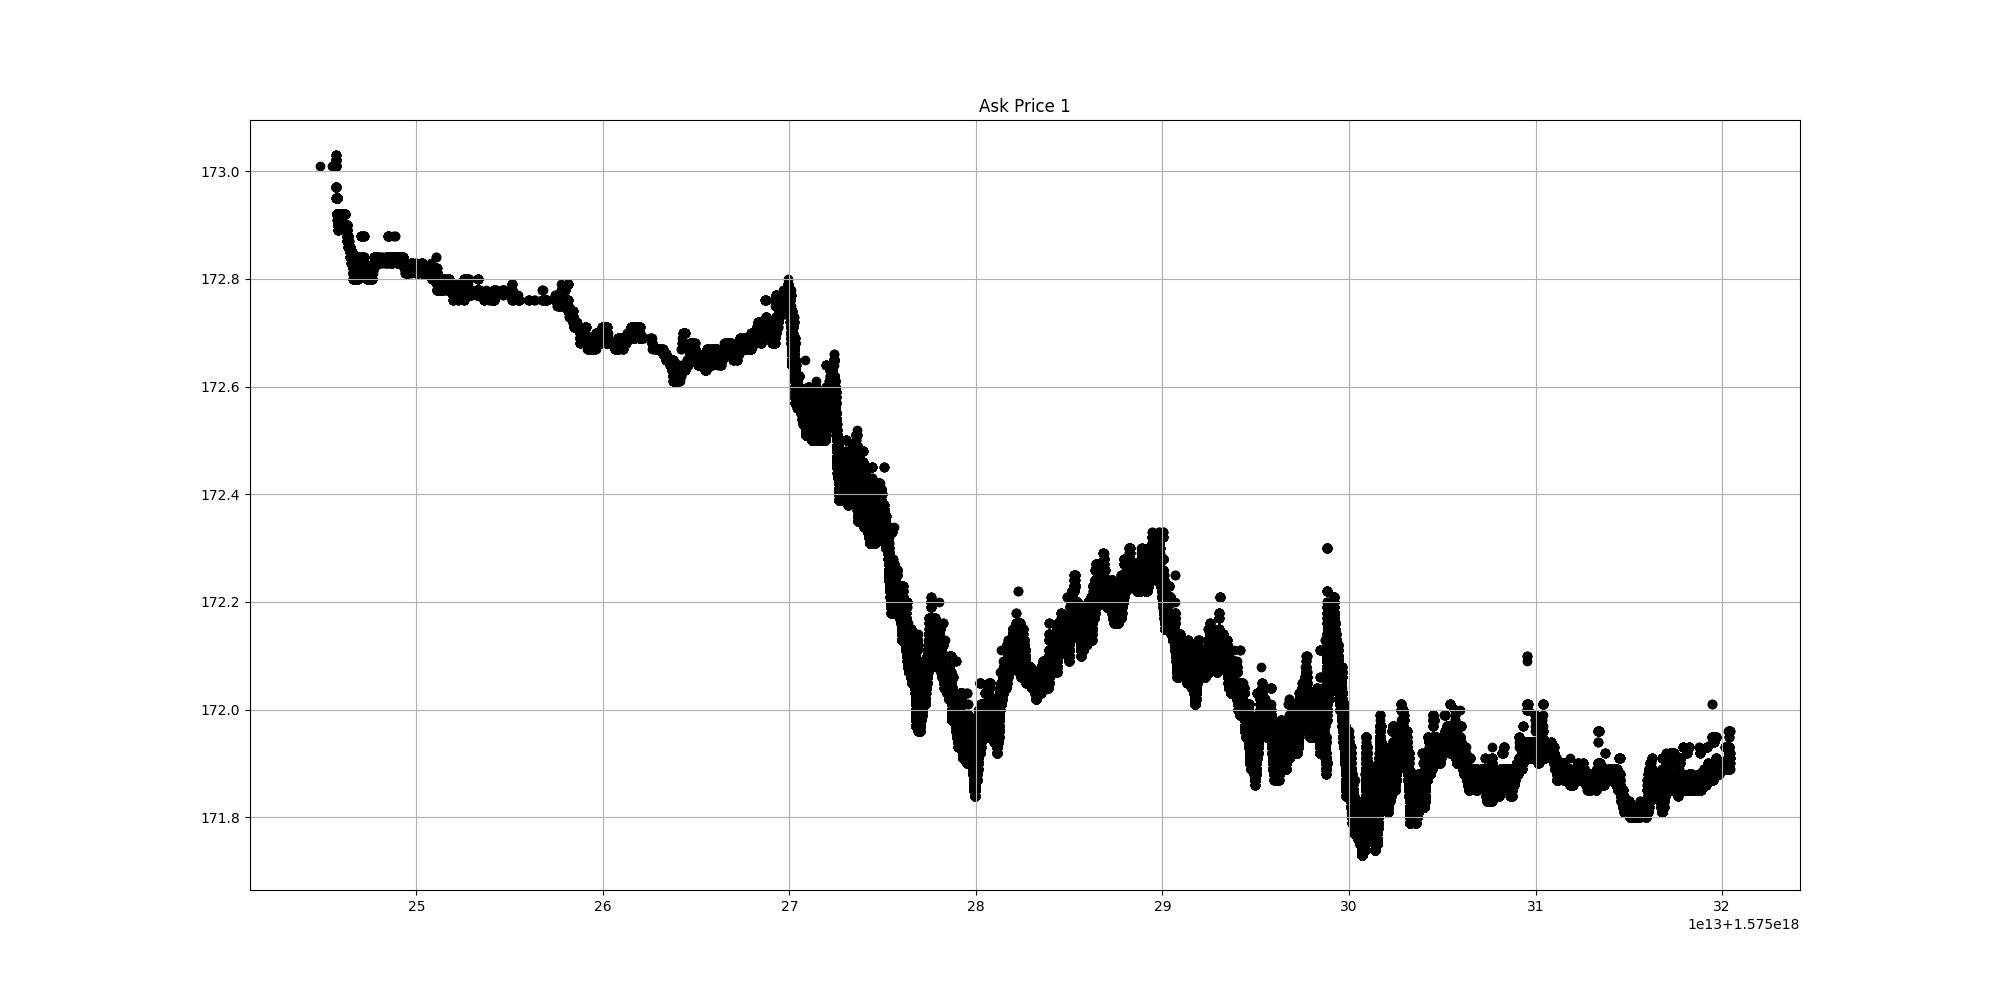
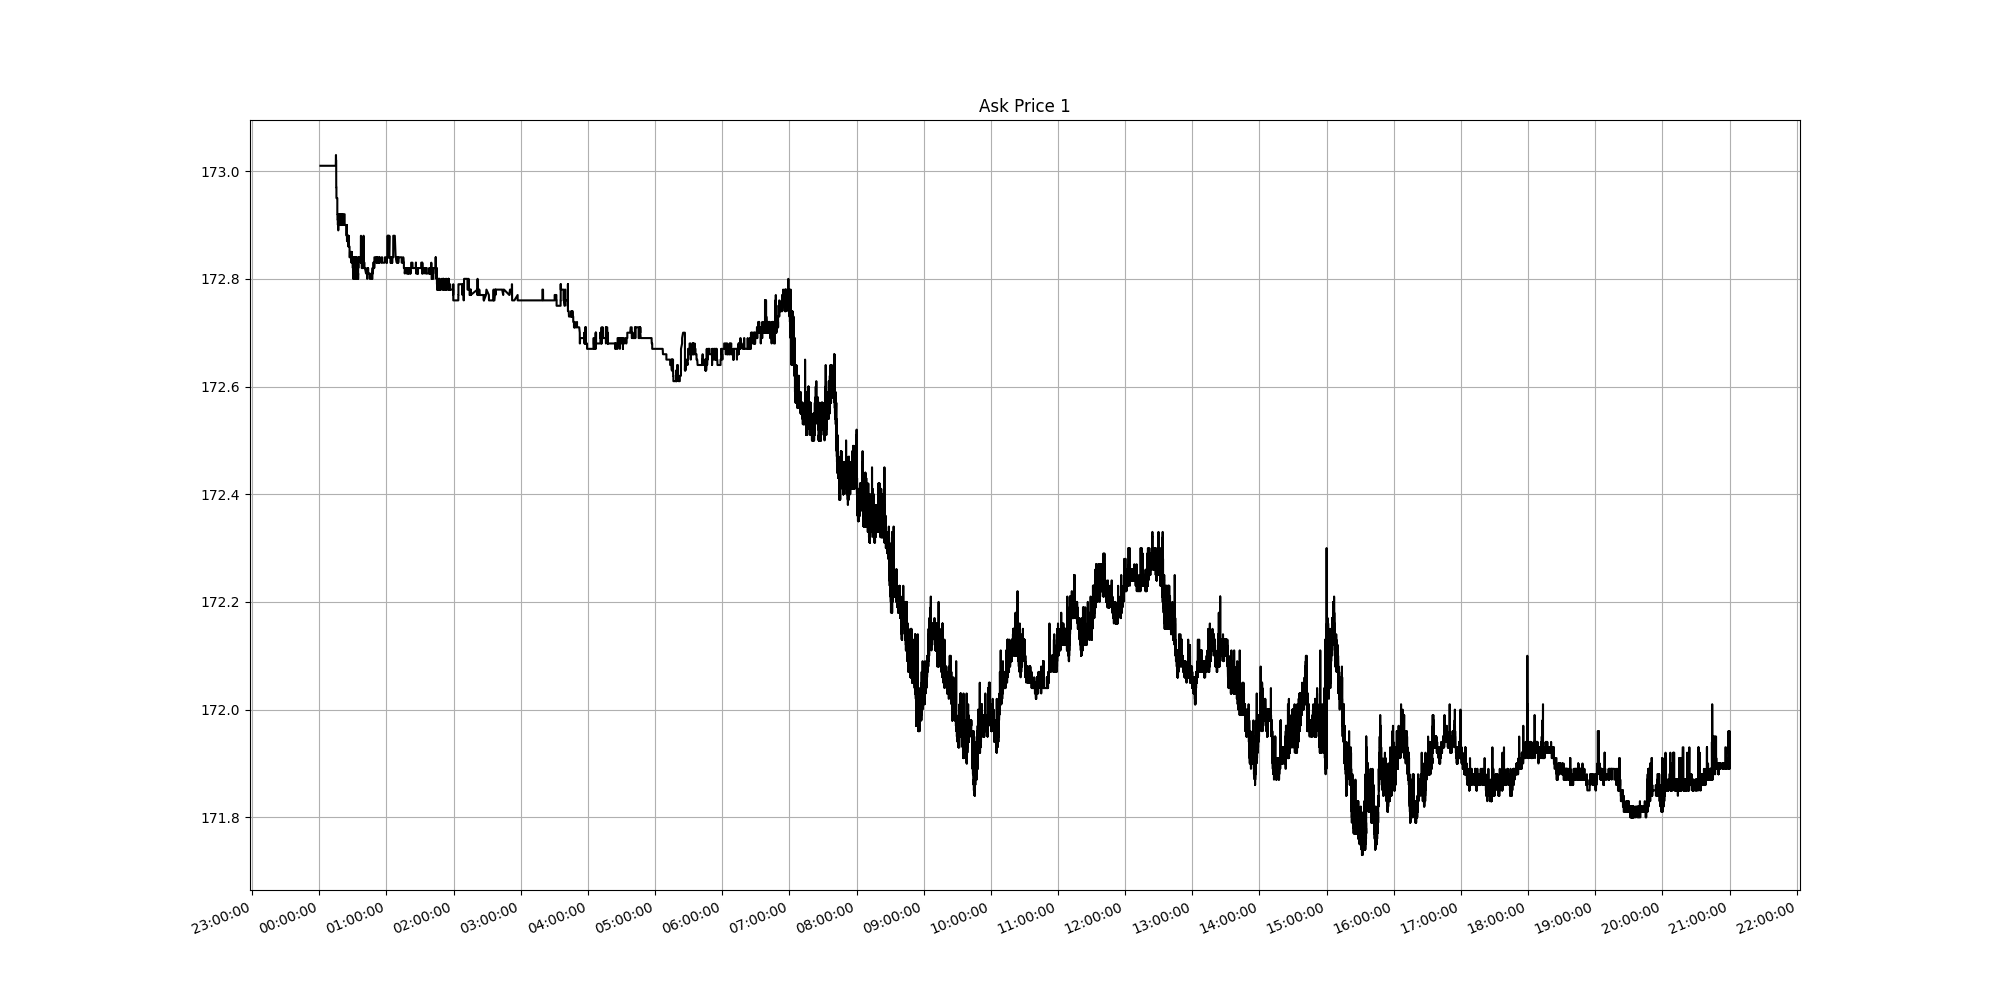
Loaded one of the witching days, parsed, feature extracted and visualized across all basic dimensions, feature correlation analysis BugFix in parsing, where timestamp appeared to be None

Changed region(s): [[0.434, 0.527, 0.868, 0.868], [0.155, 0.155, 0.465, 0.527], [0.093, 0.899, 0.899, 0.93]]

diff --git a/src/anomaly_detection/visuals.py b/src/anomaly_detection/visuals.py
@@ -1,5 +1,6 @@
 import os
 import numpy as np
+import pandas
 import datetime
 import matplotlib.pyplot as plt
 import matplotlib.dates as mdates
@@ -23,8 +24,8 @@ def plot_eval_res(date, market_segment_id, security_id, model_names, short_model
     :param amax: Alpha maximum
     """
     # Create the output directory if it does not exist
-    if not os.path.exists(f"img/anomaly_detections/{date}_{market_segment_id}_{security_id}"):
-        os.makedirs(f"img/anomaly_detections/{date}_{market_segment_id}_{security_id}")
+    if not os.path.exists(f"img/eval/{date}_{market_segment_id}_{security_id}"):
+        os.makedirs(f"img/eval/{date}_{market_segment_id}_{security_id}")
 
     # Plot the evaluation results
     for i in range(2):  # Plot non-log and log scale versions
@@ -65,9 +66,9 @@ def plot_eval_res(date, market_segment_id, security_id, model_names, short_model
 
         file_name = "_".join(short_model_names)
         if i != 0:
-            plt.savefig(f"img/anomaly_detections/{date}_{market_segment_id}_{security_id}/{file_name}_EM_MV_eval_log.png")
+            plt.savefig(f"img/eval/{date}_{market_segment_id}_{security_id}/{file_name}_EM_MV_eval_log.png")
         else:
-            plt.savefig(f"img/anomaly_detections/{date}_{market_segment_id}_{security_id}/{file_name}_EM_MV_eval.png")
+            plt.savefig(f"img/eval/{date}_{market_segment_id}_{security_id}/{file_name}_EM_MV_eval.png")
         plt.show()
 
 
@@ -166,7 +167,7 @@ def plot_feat_corr(date, market_segment_id, security_id, corr_matrix):
     ax.set_xticks(np.arange(len(labels)))
     ax.set_yticks(np.arange(len(labels)))
     labels_clipped = [label[:10] for label in labels]
-    ax.set_xticklabels(labels_clipped, rotation=22.5, ha='right')
+    ax.set_xticklabels(labels_clipped, rotation=22.5, ha='left')
     ax.set_yticklabels(labels)
 
     ax.set_xlabel("Feature")
@@ -204,3 +205,56 @@ def plot_feat_imp(date, market_segment_id, security_id, feature_importance_dict,
 
     plt.savefig(f"img/features/{date}_{market_segment_id}_{security_id}/feature_importance.png")
     plt.show()
+
+
+def plot_basic_dimensional_vis(date, market_segment_id, security_id):
+    """
+    Plot the basic dimensional visualization
+    :param date: Date of the data
+    :param market_segment_id: Market segment ID
+    :param security_id: Security ID
+    """
+    FILE_PATH = f"data/{date}_{market_segment_id}_{security_id}_lobster_augmented.csv"
+    if not os.path.exists(f"img/features/{date}_{market_segment_id}_{security_id}"):
+        os.makedirs(f"img/features/{date}_{market_segment_id}_{security_id}")
+
+    data = pandas.read_csv(FILE_PATH)
+    data_numpy = data.to_numpy()
+    time_idx = data.columns.get_loc("Time")
+
+    # Convert the time data to datetime
+    time_data = np.array([
+        (datetime.datetime.min + datetime.timedelta(seconds=t // 1e9))
+        for t in data_numpy[:, time_idx]
+    ])
+
+    # Visualize all the columns in the dataset with "Time" on the x-axis
+    for column in data.columns:
+        if column == "Time" or "Ask Price" in column or "Bid Price" in column or "Ask Volume" in column or "Bid Volume" in column:
+            if column != "Ask Price 1" and column != "Bid Price 1" and column != "Ask Volume 1" and column != "Bid Volume 1":
+                continue
+        plt.figure(figsize=(20, 10))
+        plt.title(column)
+
+        if "Oppose" in column:  # Trades Oppose Quotes and Cancels Oppose Trades are categorical (True/False)
+            plt.scatter(time_data, data[column], color="black", label=column)
+        else:
+            plt.plot(time_data, data[column], color="black", label=column)
+
+        plt.gca().xaxis.set_major_formatter(mdates.DateFormatter('%H:%M:%S'))
+        plt.gca().xaxis.set_major_locator(mdates.HourLocator(interval=1))
+        plt.xticks(rotation=22.5, ha='right')
+
+        plt.grid()
+        plt.savefig(f"img/features/{date}_{market_segment_id}_{security_id}/{column}.png")
+        plt.show()
+
+
+if __name__ == "__main__":
+    # DATE = 20191202
+    # MARKET_SEGMENT_ID = 688
+    # SECURITY_ID = 4128839
+    DATE = "20210319"
+    MARKET_SEGMENT_ID = "589"
+    SECURITY_ID = "5594748"
+    plot_basic_dimensional_vis(DATE, MARKET_SEGMENT_ID, SECURITY_ID)

diff --git a/src/data_preprocess/json-detailed2lobster.py b/src/data_preprocess/json-detailed2lobster.py
@@ -189,7 +189,8 @@ print("Creating orderbook...")
 # Initialize data structures
 lobster_buy = [[] for _ in range(max_index)]
 lobster_sell = [[] for _ in range(max_index)]
-timestamps = list(dict(sorted(instructions.items())).keys())
+timestamps = list(dict(sorted({k: v for k, v in instructions.items() if k is not None}.items())).keys())
+timestamps += [timestamps[-1]] * (max_index - len(timestamps))
 cancellations_buy = {}
 cancellations_sell = {}
 trades_buy = {}
